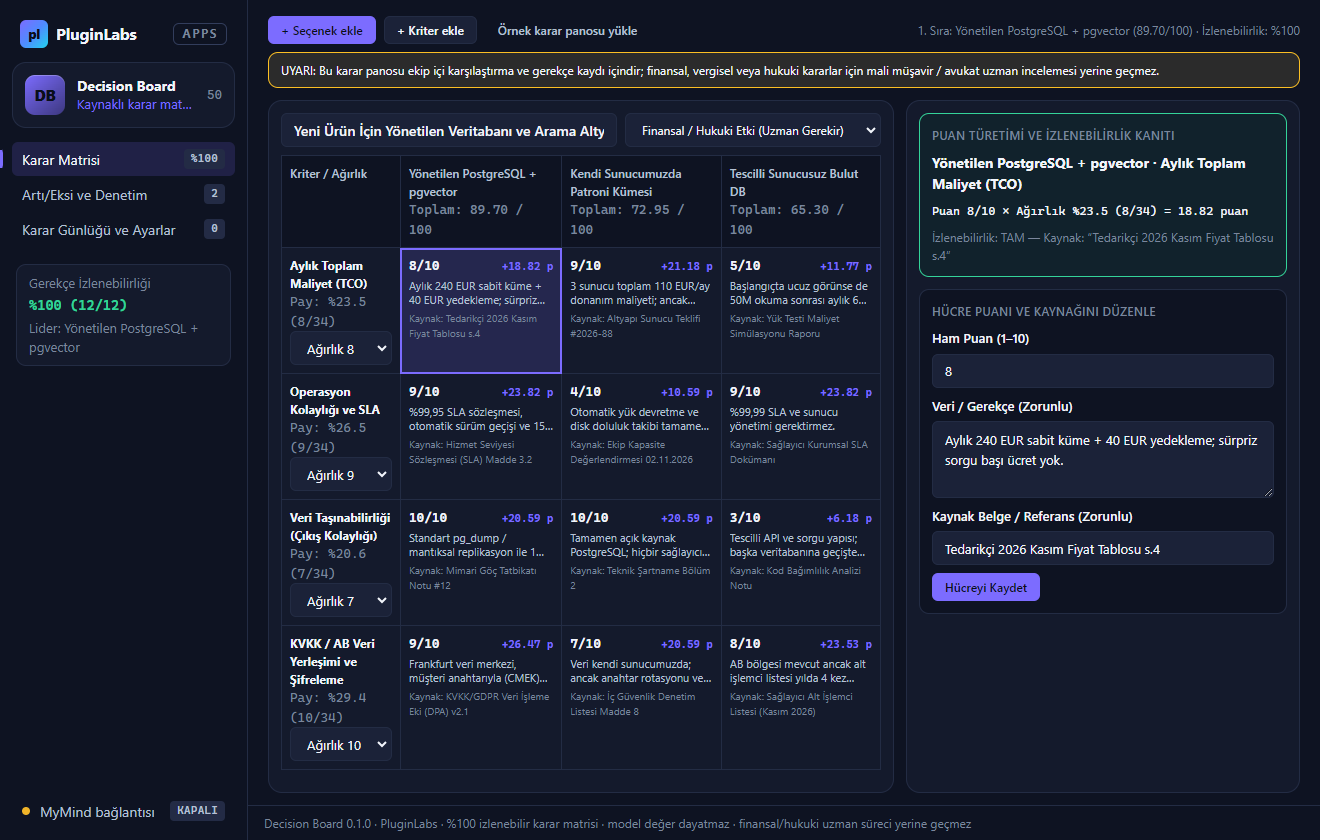
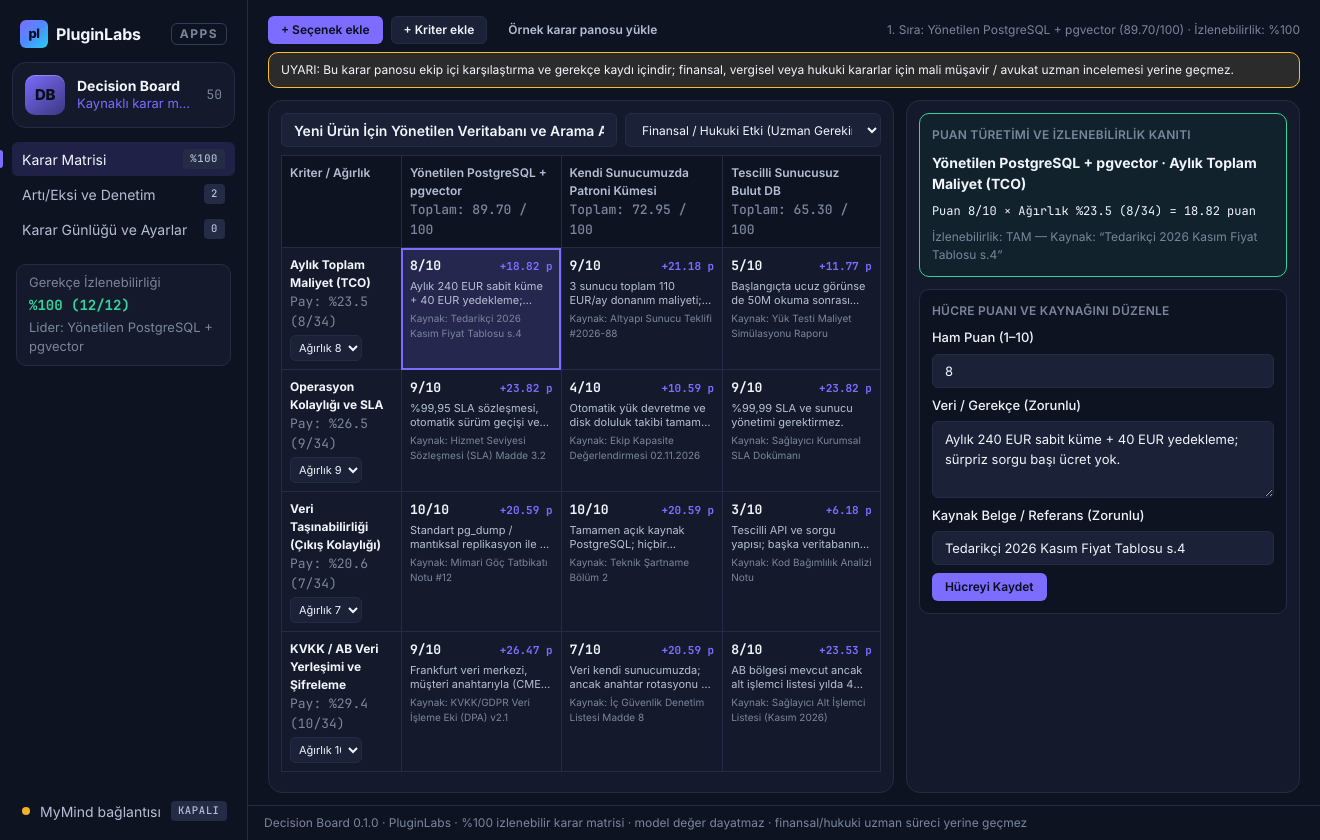
[PL-050] Decision Board: ağırlık seçicisindeki satır içi stil CSP ihlalini sınıfa taşı, aria-label düzelt
Claude-Session: https://claude.ai/code/session_015ofa8A5VQVtB46TBGtAK4L

diff --git a/apps/05-gelistirici-ve-profesyonel-araclar/PL-050-decision-board/app/app.js b/apps/05-gelistirici-ve-profesyonel-araclar/PL-050-decision-board/app/app.js
@@ -100,9 +100,8 @@
       const weightSelect = el(
         "select",
         {
-          class: "pl-input",
-          style: "width:4.5rem;height:26px;padding:0 4px;font-size:11px;margin-top:4px",
-          ariaLabel: `${crit.name} ağırlığı`,
+          class: "pl-input db-weight-select",
+          "aria-label": `${crit.name} ağırlığı`,
           onchange: (e) =>
             run(async () => {
               S = await D.board.updateWeight(crit.id, Number(e.target.value));

diff --git a/apps/05-gelistirici-ve-profesyonel-araclar/PL-050-decision-board/app/app.css b/apps/05-gelistirici-ve-profesyonel-araclar/PL-050-decision-board/app/app.css
@@ -84,3 +84,6 @@ html, body { margin: 0; height: 100%; }
 .ax-fields__wide { grid-column: 1 / -1; }
 .ax-pros-grid { display: grid; grid-template-columns: repeat(3, minmax(0, 1fr)); gap: var(--pl-space-3); }
 .ax-num { font-family: var(--pl-font-mono); }
+
+/* Ölçüt ağırlığı seçici (CSP style-src 'self': satır içi stil yerine sınıf) */
+.db-weight-select { width: 4.5rem; height: 26px; padding: 0 4px; font-size: 11px; margin-top: 4px; }
